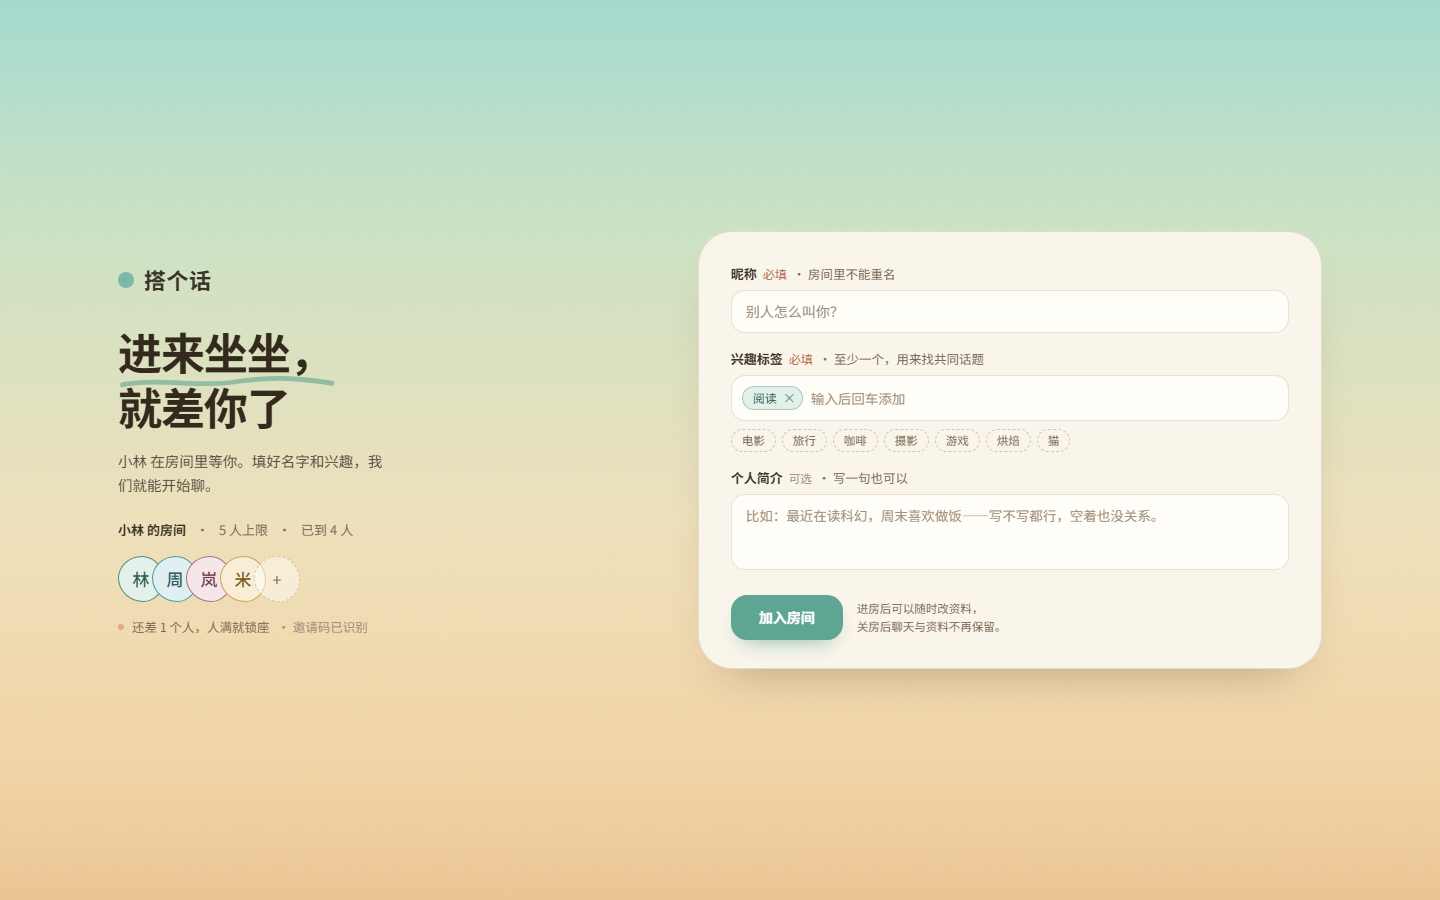
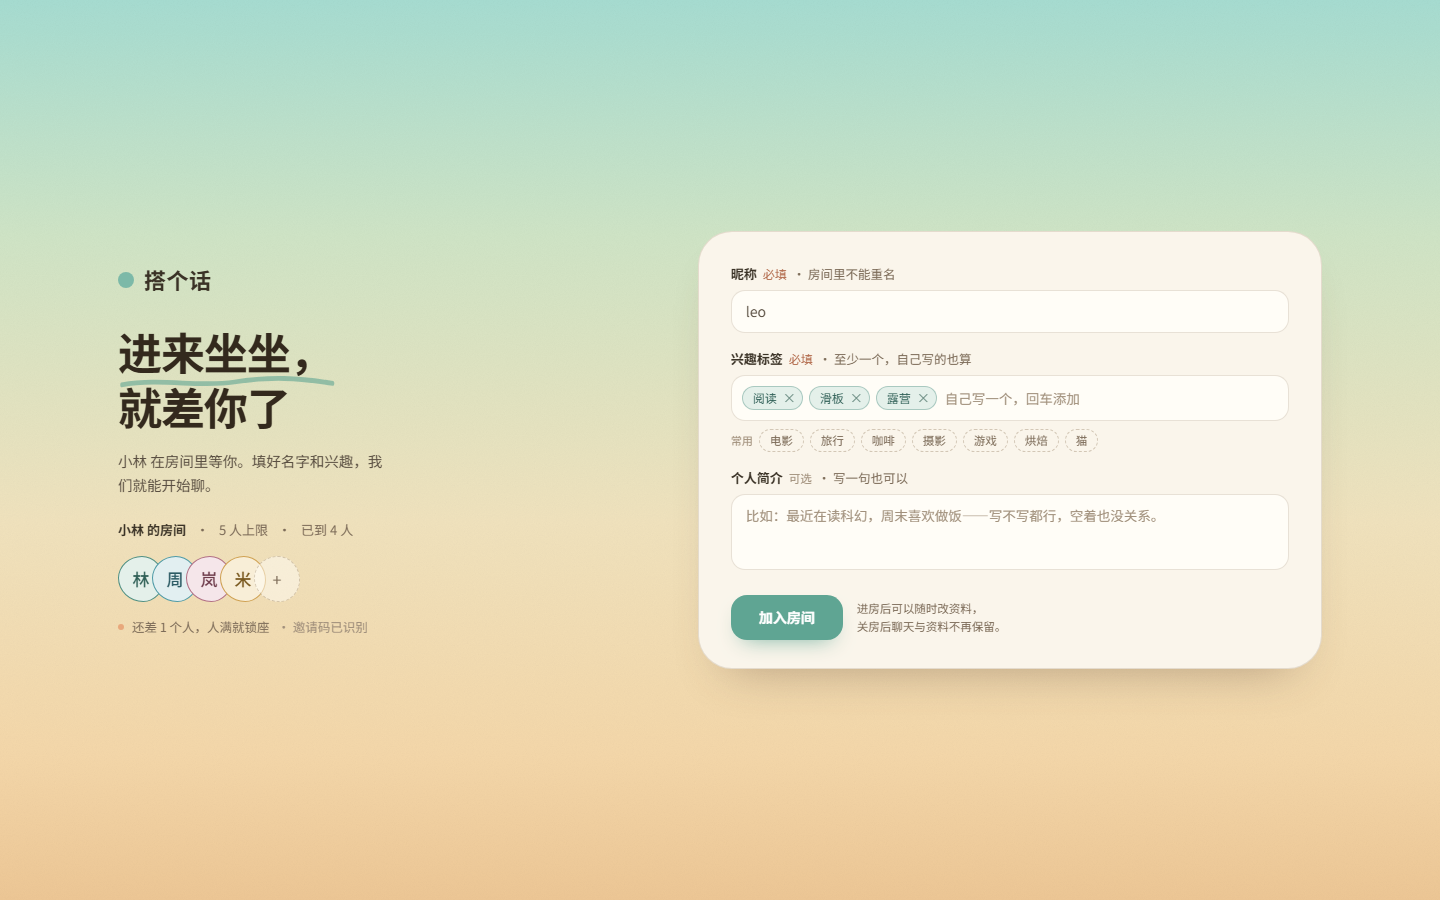
feat(frontend): 兴趣标签完全自由输入
- 支持自定义标签，回车/逗号/顿号/空格分隔，可一次加多个
- 加中文输入法保护：选词时的回车不会误提交
- 加「+ 添加」按钮（有内容时才出现），常用词只作为快捷方式
- 初始不再预填标签，标签上限按 client-config 截断

Changed region(s): [[0.5, 0.3733, 0.75, 0.4978], [0.5, 0.3422, 0.5938, 0.3733]]

diff --git a/frontend/src/features/join/JoinForm.tsx b/frontend/src/features/join/JoinForm.tsx
@@ -19,7 +19,7 @@ const SUGGESTIONS = ['电影', '旅行', '咖啡', '摄影', '游戏', '烘焙',
 
 export function JoinForm({ policy, submitting, serverError, fieldErrors, onSubmit }: JoinFormProps) {
   const [nickname, setNickname] = useState('')
-  const [tags, setTags] = useState<string[]>(['阅读'])
+  const [tags, setTags] = useState<string[]>([])
   const [tagDraft, setTagDraft] = useState('')
   const [bio, setBio] = useState('')
   const [touched, setTouched] = useState(false)
@@ -28,14 +28,28 @@ export function JoinForm({ policy, submitting, serverError, fieldErrors, onSubmi
   const tagsTooFew = tags.length < (policy.interestTags.minItems ?? 1)
   const invalid = nicknameTooShort || tagsTooFew
 
+  /**
+   * 标签完全自由：可以点常用词，也可以自己打。
+   * 支持一次粘贴/输入多个（逗号、顿号、空格分隔），并按契约的上限截断。
+   */
   function addTag(raw: string) {
-    const value = raw.trim().replace(/[，,]$/, '')
-    if (!value) return
-    if (tags.includes(value)) {
+    const parts = raw
+      .split(/[,，、\s]+/)
+      .map((item) => item.trim())
+      .filter(Boolean)
+    if (parts.length === 0) {
       setTagDraft('')
       return
     }
-    setTags((prev) => [...prev, value])
+    setTags((prev) => {
+      const limit = policy.interestTags.maxItems ?? Number.POSITIVE_INFINITY
+      const next = [...prev]
+      for (const part of parts) {
+        if (next.length >= limit) break
+        if (!next.includes(part)) next.push(part)
+      }
+      return next
+    })
     setTagDraft('')
   }
 
@@ -77,7 +91,7 @@ export function JoinForm({ policy, submitting, serverError, fieldErrors, onSubmi
         <label className="mb-1.5 flex items-baseline gap-1.5 text-[12.5px] text-muted" htmlFor="tag-draft">
           <b className="text-[13px] font-semibold text-ink">兴趣标签</b>
           <span className="text-[12px] text-brick">必填</span>
-          <span>· 至少一个，用来找共同话题</span>
+          <span>· 至少一个，自己写的也算</span>
         </label>
         <div
           className={`flex min-h-[46px] flex-wrap items-center gap-1.5 rounded-[14px] border-[1.5px] bg-card px-2.5 py-2 transition-shadow focus-within:border-[rgba(96,166,150,.7)] focus-within:shadow-[0_0_0_4px_rgba(124,185,168,.14)] ${
@@ -105,18 +119,33 @@ export function JoinForm({ policy, submitting, serverError, fieldErrors, onSubmi
             value={tagDraft}
             onChange={(event) => setTagDraft(event.target.value)}
             onKeyDown={(event) => {
-              if (event.key === 'Enter' || event.key === '，' || event.key === ',') {
+              // 中文输入法选词时的回车不算提交
+              if (event.nativeEvent.isComposing) return
+              if (event.key === 'Enter') {
                 event.preventDefault()
                 addTag(tagDraft)
+              } else if (event.key === '，' || event.key === ',') {
+                event.preventDefault()
+                addTag(`${tagDraft}${event.key}`)
               } else if (event.key === 'Backspace' && tagDraft.length === 0 && tags.length > 0) {
                 setTags((prev) => prev.slice(0, -1))
               }
             }}
-            placeholder="输入后回车添加"
-            className="min-w-[110px] flex-1 bg-transparent px-0.5 py-1 text-[13.5px] text-ink-2 outline-none placeholder:text-faint"
+            placeholder="自己写一个，回车添加"
+            className="min-w-[120px] flex-1 bg-transparent px-0.5 py-1 text-[13.5px] text-ink-2 outline-none placeholder:text-faint"
           />
+          {tagDraft.trim().length > 0 && (
+            <button
+              type="button"
+              onClick={() => addTag(tagDraft)}
+              className="shrink-0 rounded-full border border-dashed border-[rgba(96,166,150,.6)] px-2.5 py-0.5 text-[11.5px] text-[#3f6156] transition-colors hover:bg-[rgba(124,185,168,.16)]"
+            >
+              + 添加
+            </button>
+          )}
         </div>
-        <div className="mt-2 flex flex-wrap gap-1.5">
+        <div className="mt-2 flex flex-wrap items-center gap-1.5">
+          <span className="text-[11px] text-faint">常用</span>
           {SUGGESTIONS.filter((item) => !tags.includes(item)).map((item) => (
             <button
               key={item}
@@ -130,7 +159,7 @@ export function JoinForm({ policy, submitting, serverError, fieldErrors, onSubmi
         </div>
         {touched && tagsTooFew && (
           <p className="mt-1 text-[11.5px] text-brick">
-            {fieldErrors['/profile/interestTags'] ?? '先选一个兴趣，导播好帮你起话题'}
+            {fieldErrors['/profile/interestTags'] ?? '至少填一个兴趣，自己写的也行'}
           </p>
         )}
       </div>
